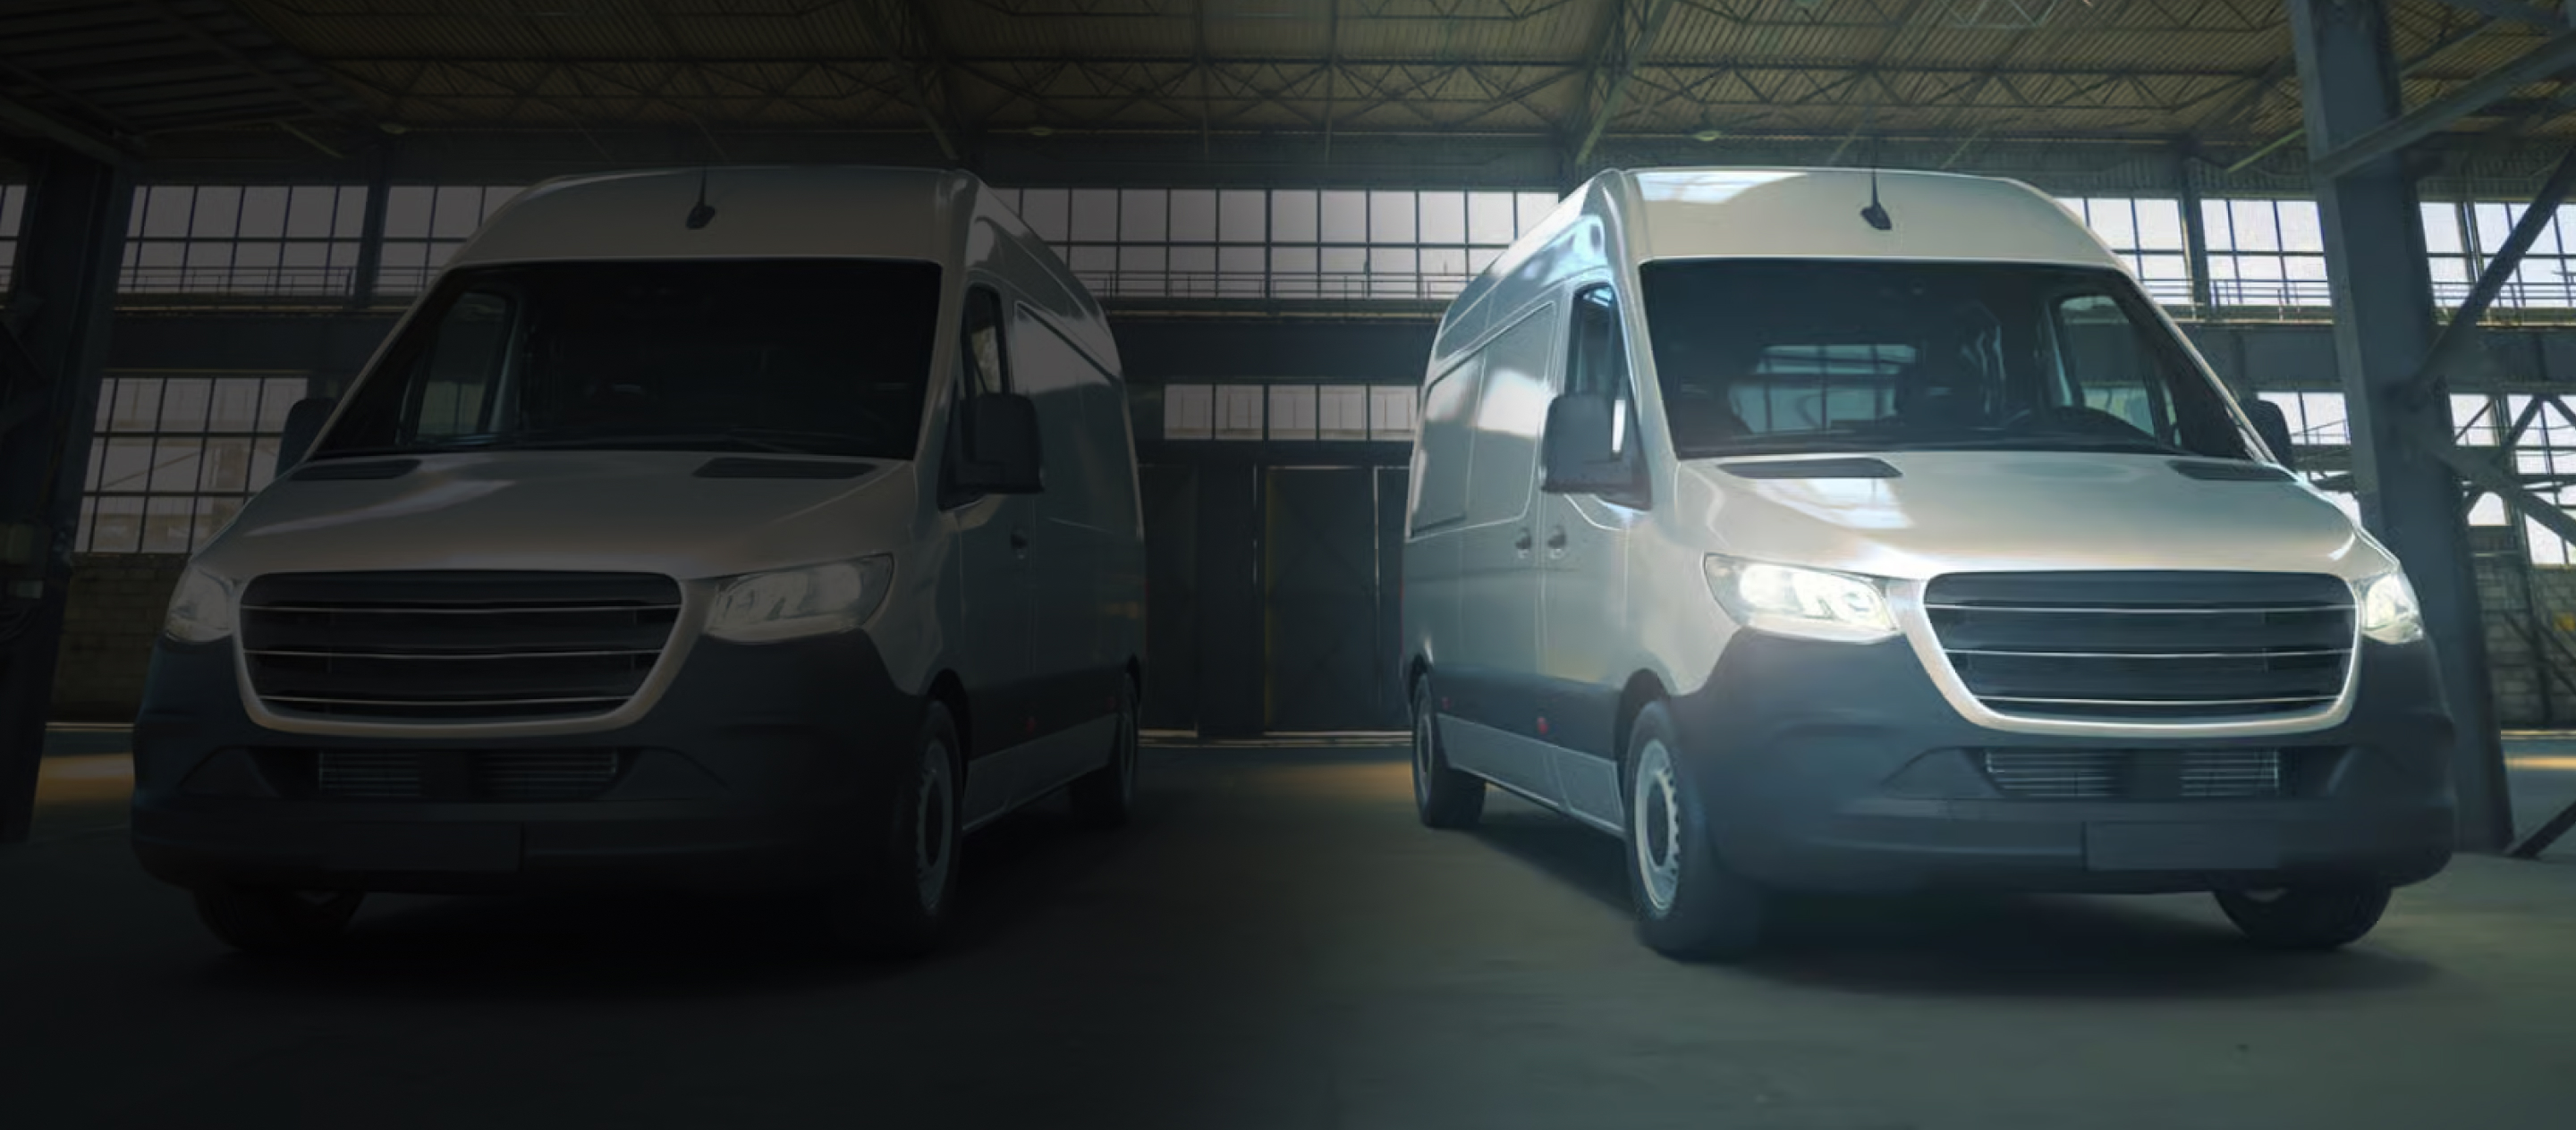
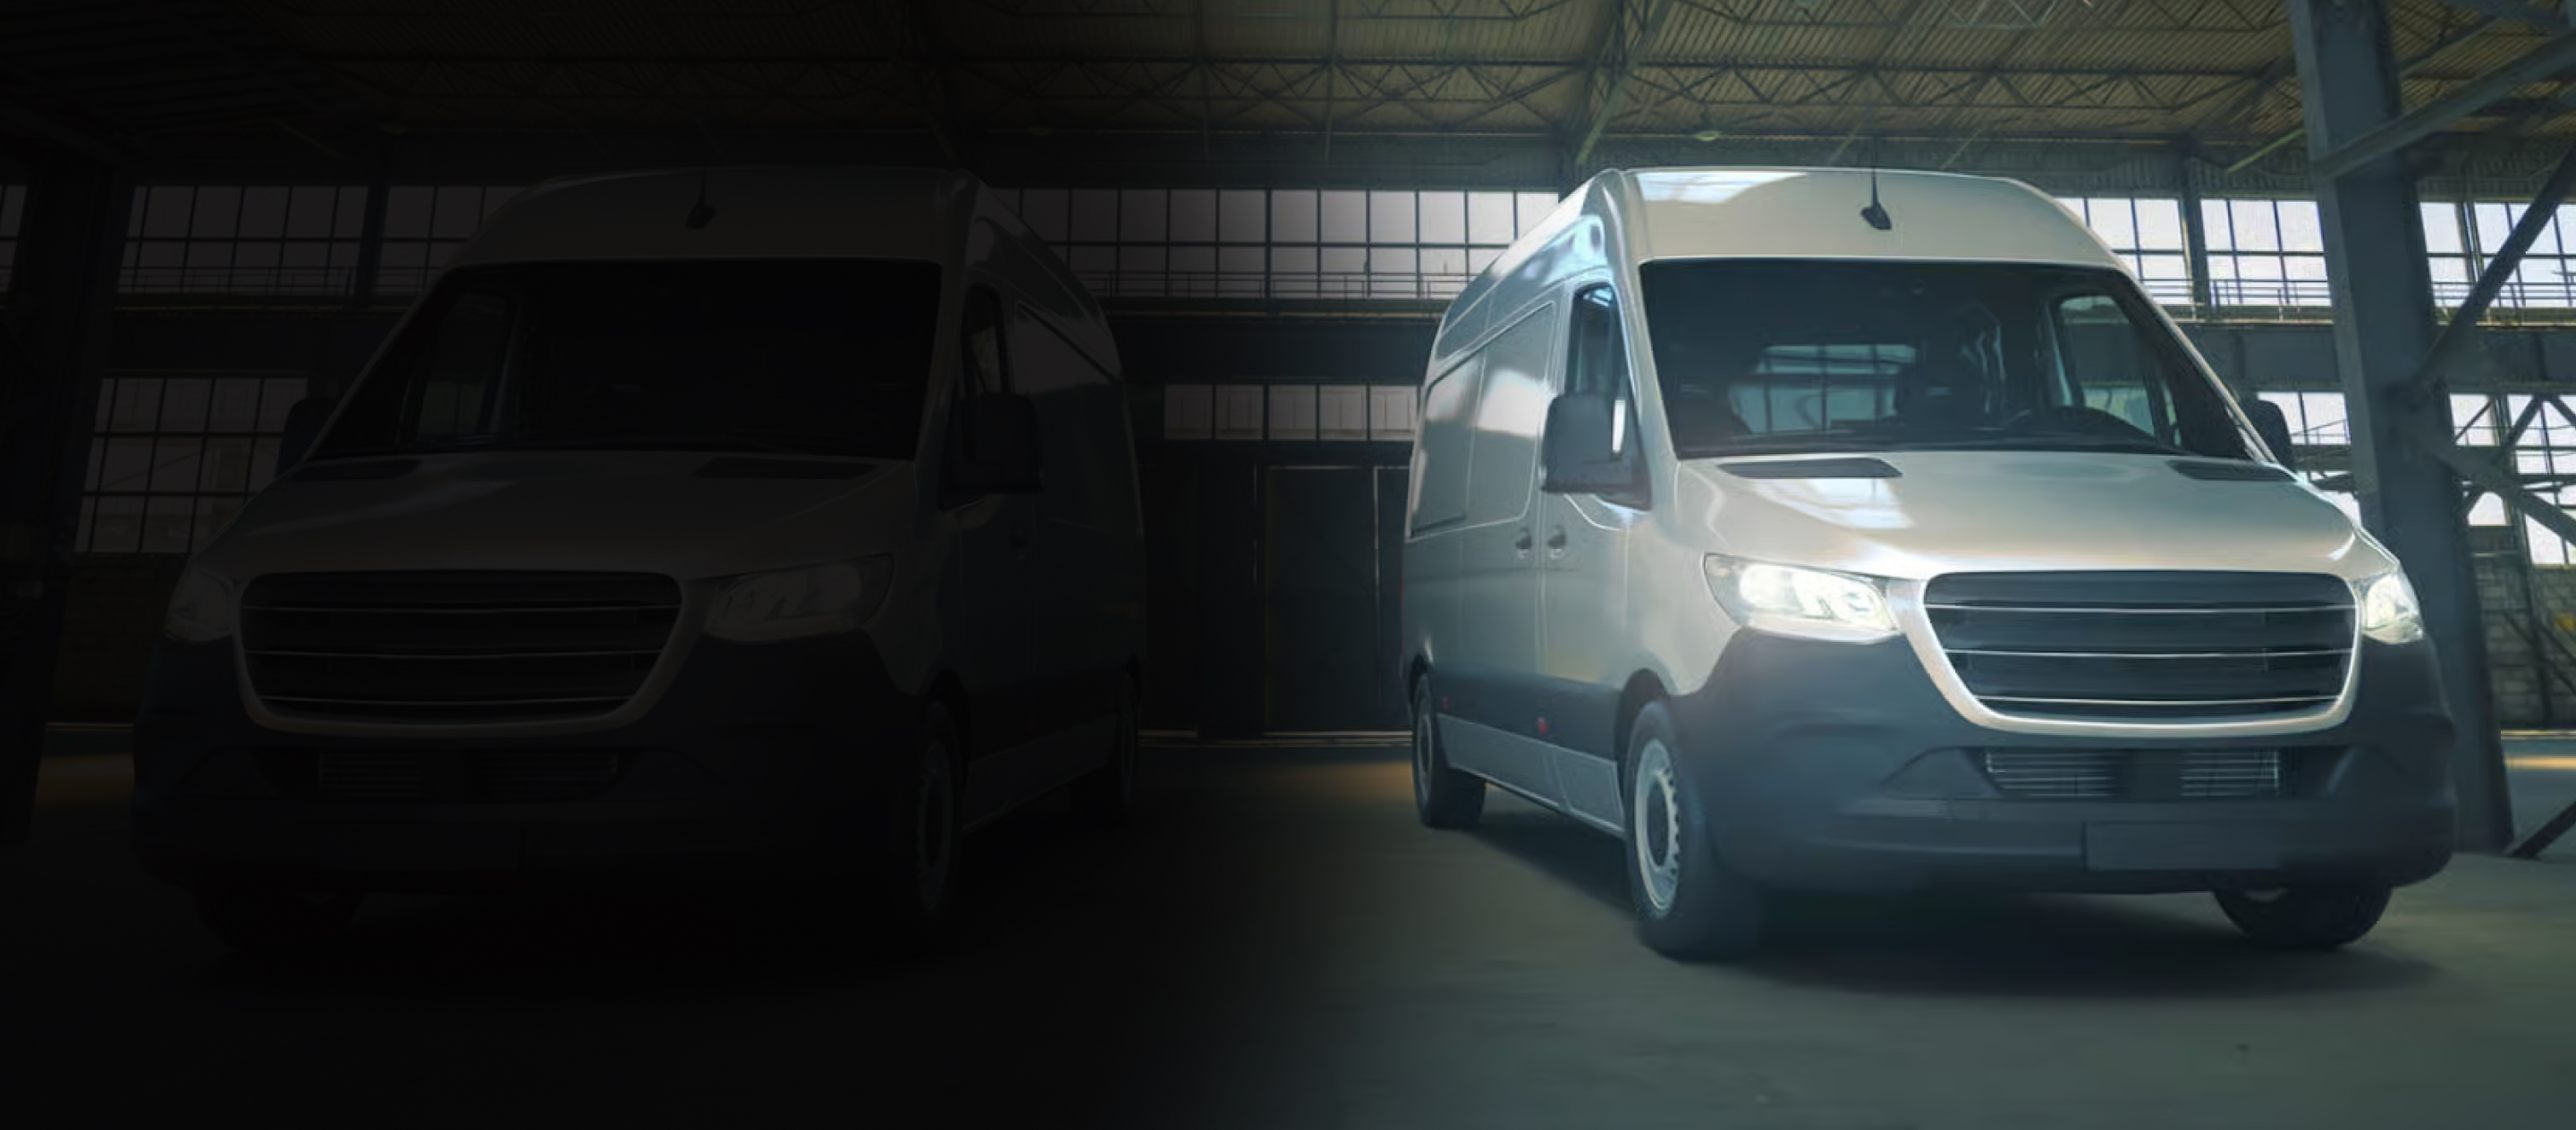
Updated hero section Images

diff --git a/src/components/sections/Hero/Hero.tsx b/src/components/sections/Hero/Hero.tsx
@@ -6,7 +6,7 @@ import Image from "next/image";
 
 export function Hero() {
   return (
-    <section className="relative bg-primary-black">
+    <section className="relative bg-primary-black/70">
       {/* Background image/gradient get their own clipped layer instead of overflow-hidden on the whole section — the Global Search dropdown lives in this section too and needs to be able to extend past the section's bottom edge (over the next landing-page section) without being clipped. */}
       <div className="absolute inset-0 overflow-hidden" aria-hidden="true">
         <Image
@@ -15,9 +15,9 @@ export function Hero() {
           fill
           priority
           sizes="100vw"
-          className="object-cover opacity-60"
+          className="object-cover"
         />
-        <div className="absolute inset-0 bg-gradient-to-t from-primary-black via-primary-black/70 to-primary-black/30" />
+        <div className="absolute inset-0 bg-gradient-to-t from-primary-black/70 via-primary-black/40 to-primary-black/20" />
       </div>
 
       <div className="container-page relative flex flex-col gap-8 py-16 sm:py-24 lg:py-28">
